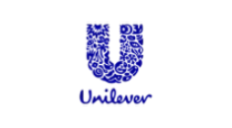
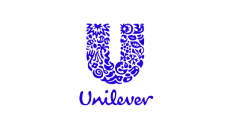
fix(main): feature viewport issue fixed and image changed for blurry issue

Changed region(s): [[0.3319, 0.1562, 0.6638, 0.8438]]

diff --git a/components/shared/Header.tsx b/components/shared/Header.tsx
@@ -19,7 +19,7 @@ export default async function Header() {
     };
     return (
         <div className="w-full lg:py-3.5 py-1.5 relative flex">
-            <NavigationMenu className="min-w-full">
+            <NavigationMenu viewport className="max-h-full min-w-full">
                 <div className={`component-container mx-auto`}>
                     <div className="flex justify-between items-center">
                         <Link href="/" className="cursor-pointer">
@@ -43,9 +43,9 @@ export default async function Header() {
                                         <Link className={`${isActive("/#products") ? "text-gradient" : "text-[#777F92]"} whitespace-nowrap`} href={"/#products"}>Products</Link>
                                     </NavigationMenuLink>
                                 </NavigationMenuItem>
-                                <NavigationMenuItem>
+                                <NavigationMenuItem className="">
                                     <NavigationMenuTrigger className={`${isActive("/features") ? "text-gradient" : "text-[#777F92]"} bg-transparent hover:bg-transparent whitespace-nowrap`}>Features</NavigationMenuTrigger>
-                                    <NavigationMenuContent className="p-0 m-0">
+                                    <NavigationMenuContent className="p-0 m-0 min-w-full max-w-full">
                                         <FeatureLinks />
                                     </NavigationMenuContent>
                                 </NavigationMenuItem>

diff --git a/components/ui/navigation-menu.tsx b/components/ui/navigation-menu.tsx
@@ -141,13 +141,13 @@ function NavigationMenuViewport({
   return (
     <div
       className={cn(
-        "absolute top-full left-0 isolate z-50 flex justify-center"
+        "absolute top-full left-0 isolate z-50 flex justify-center w-full"
       )}
     >
       <NavigationMenuPrimitive.Viewport
         data-slot="navigation-menu-viewport"
         className={cn(
-          "origin-top-center bg-popover text-popover-foreground data-[state=open]:animate-in data-[state=closed]:animate-out data-[state=closed]:zoom-out-95 data-[state=open]:zoom-in-90 relative mt-1.5 h-[var(--radix-navigation-menu-viewport-height)] w-full overflow-hidden rounded-md border shadow md:w-[var(--radix-navigation-menu-viewport-width)]",
+          "origin-top-center bg-popover rounded-none text-popover-foreground data-[state=open]:animate-in data-[state=closed]:animate-out data-[state=closed]:zoom-out-95 data-[state=open]:zoom-in-90 relative mt-1.5 h-(--radix-navigation-menu-viewport-height) w-full overflow-hidden shadow",
           className
         )}
         {...props}

diff --git a/components/shared/FeatureLinks.tsx b/components/shared/FeatureLinks.tsx
@@ -46,7 +46,7 @@ export default function FeatureLinks() {
   const alert = components.filter((item) => item.tag === 'Alert');
   const report = components.filter((item) => item.tag === 'Report');
   return (
-    <ul className="grid w-screen bg-[#FFFDFA] bg-[linear-gradient(149deg,rgba(255,253,250,1)_0%,rgba(255,253,251,1)_100%)] p-0">
+    <ul className="grid bg-[#FFFDFA] bg-[linear-gradient(149deg,rgba(255,253,250,1)_0%,rgba(255,253,251,1)_100%)] p-0">
       <div className='component-container mx-auto p-0'>
         <div className='lg:py-8 md:py-6 py-4 grid xl:grid-cols-3 lg:grid-cols-2 gap-4'>
           <div>
